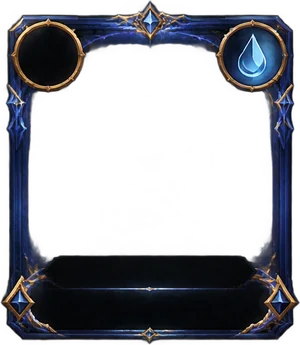
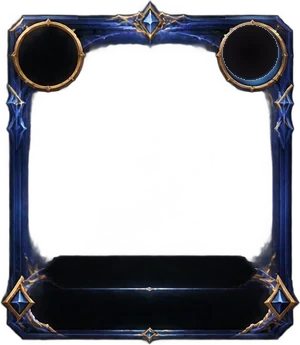
v1.73.2 : cartes de héros lisibles (niveau, affinité, étoiles, nom, badges de doublons) et barre du bas centrée
Claude-Session: https://claude.ai/code/session_01UFe4KkAhhm88BaEypYBpxf

Changed region(s): [[0.72, 0.058, 0.93, 0.2319]]

diff --git a/src/styles/kit.css b/src/styles/kit.css
@@ -31,23 +31,47 @@
 .progress { height: 9px; border-radius: 0; background: url('../assets/kit/bar_track.webp') center / 100% 100% no-repeat; box-shadow: none; border: 0; overflow: hidden; }
 .progress > div { height: 100%; border-radius: 0; background: url('../assets/kit/bar_fill.webp') left center / 100% 100% no-repeat !important; box-shadow: 0 0 6px rgba(255,200,100,0.35); }
 
-/* ── Cartes de héros : cadre peint selon la rareté ── */
-.hero-card { aspect-ratio: 300 / 348; border: 0 !important; border-radius: 0 !important; box-shadow: none !important; background: #07060b; overflow: visible; }
-.hero-card .art { inset: 8% 8% 22% 8%; overflow: hidden; }
-.hero-card .shade { inset: auto 8% 22% 8%; height: 26%; }
+/* ── Cartes de héros (v1.73.2) : cadre peint selon la rareté. Repères en % de l'image du cadre (300 × 348) :
+   médaillon gauche (niveau) et droit (affinité) centrés à 16,7 % / 83,3 % de large et 15 % de haut,
+   plaque du nom de 75 % à 95 % de haut. Tailles de texte en cqw : proportionnelles à la carte. ── */
+.hero-card { container-type: inline-size; aspect-ratio: 300 / 348; border: 0 !important; border-radius: 0 !important; box-shadow: none !important; background: #07060b; overflow: visible; }
+.hero-card .art { inset: 3% 6% 24% 6%; overflow: hidden; border-radius: 3px; }
+.hero-card .art img { object-position: center 18% !important; }
+.hero-card .shade { inset: auto 6% 24% 6%; height: 30%; background: linear-gradient(180deg, transparent, rgba(5,4,8,0.92)); }
 .hero-card .hc-frame { position: absolute; inset: 0; z-index: 1; pointer-events: none; background: url('../assets/kit/card_common.webp') center / 100% 100% no-repeat; }
 .hero-card.uncommon .hc-frame { background-image: url('../assets/kit/card_uncommon.webp'); }
 .hero-card.rare .hc-frame { background-image: url('../assets/kit/card_rare.webp'); }
 .hero-card.epic .hc-frame { background-image: url('../assets/kit/card_epic.webp'); }
 .hero-card.legendary .hc-frame { background-image: url('../assets/kit/card_legendary.webp'); }
 .hero-card.mythic .hc-frame { background-image: url('../assets/kit/card_mythic.webp'); }
-.hero-card .lvl { z-index: 2; top: 4.5%; left: 4.5%; width: 19%; aspect-ratio: 1; height: auto; padding: 0; display: grid; place-items: center; border: 0; border-radius: 50%; background: radial-gradient(circle, #1a1520, #07060b); font-size: 9.5px; line-height: 1; color: #f4dfa8; }
-.hero-card .hc-id { z-index: 2; top: 4.5%; right: 4.5%; }
-.hero-card .hc-id > :first-child { border-radius: 50%; background: radial-gradient(circle, #1a1520, #07060b); padding: 3px; box-sizing: content-box; }
-.hero-card .meta { z-index: 2; left: 9%; right: 9%; bottom: 5%; }
-.hero-card .hc-line { position: absolute; left: 0; right: 0; bottom: 270%; justify-content: center; }
-.hero-card .name { text-align: center; font-size: 10.5px; color: #f4e6c8; -webkit-line-clamp: 1; }
+/* Niveau : chiffre seul, centré dans le médaillon de gauche. */
+.hero-card .lvl { position: absolute; z-index: 2; left: 16.7% !important; top: 15% !important; right: auto !important; transform: translate(-50%, -50%); width: 17%; height: auto; aspect-ratio: 1; padding: 0 !important; display: grid; place-items: center; border: 0 !important; border-radius: 50% !important; background: none !important;
+  font-family: var(--font-body); font-size: 7.5cqw !important; font-weight: 800; line-height: 1; color: #f4dfa8; text-shadow: 0 1px 2px #000; }
+/* Affinité dans le médaillon de droite, rôle en petite pastille juste dessous. */
+.hero-card .hc-id { position: absolute; z-index: 2; top: 15% !important; right: auto !important; left: 83.3%; transform: translate(-50%, -50%); width: 17%; aspect-ratio: 1; display: grid !important; place-items: center; gap: 0; }
+.hero-card .hc-id > :first-child { width: 78% !important; height: 78% !important; padding: 0 !important; background: none !important; }
+.hero-card .hc-id .hc-role { position: absolute; top: 108%; left: 50%; transform: translateX(-50%); width: 13cqw; height: 13cqw; min-width: 14px; min-height: 14px; background: rgba(8,6,12,0.85); box-shadow: 0 0 0 1px rgba(233,198,122,0.55); }
+.hero-card .hc-id .hc-role svg { width: 62%; height: 62%; }
+/* Étoiles (et emblème de famille) centrées juste au-dessus de la plaque du nom. */
+.hero-card .meta { position: absolute; z-index: 2; inset: auto 8% 5% 8%; height: 20%; display: flex; align-items: center; justify-content: center; }
+.hero-card .hc-line { position: absolute !important; left: 0; right: 0; bottom: 118% !important; display: flex; justify-content: center; align-items: center; gap: 1.5cqw; }
+.hero-card .hc-line .stars { display: inline-flex; gap: 0.4cqw; }
+.hero-card .hc-line .stars svg { width: 6.5cqw; height: 6.5cqw; }
+.hero-card .hc-line > svg:first-child, .hero-card .hc-line > img:first-child { width: 7cqw; height: 7cqw; }
+/* Nom : une ligne, centrée dans la plaque ; les noms longs passent au prénom. */
+.theme-v2 .hero-card .name { display: block !important; width: 100%; text-align: center; white-space: nowrap; overflow: hidden; text-overflow: ellipsis; -webkit-line-clamp: unset !important;
+  font-family: 'Cormorant Garamond', Georgia, serif !important; font-weight: 700; font-size: 9cqw !important; line-height: 1.1; letter-spacing: 0.01em; text-transform: none; color: #f4e6c8; text-shadow: 0 1px 2px #000; margin: 0; }
+.hero-card .name .n-short { display: none !important; }
+.hero-card .name .n-full { display: inline !important; }
+.hero-card .name.long .n-full { display: none !important; }
+.hero-card .name.long .n-short { display: inline !important; }
+/* Doublons et verrou : petits badges à gauche, sous le médaillon du niveau. */
+.hero-card .hc-badges { position: absolute; z-index: 2; left: 6%; top: 28%; display: flex; flex-direction: column; gap: 3px; align-items: flex-start; }
+.hero-card .hc-badge { display: inline-grid; place-items: center; min-width: 13cqw; height: 11cqw; min-height: 15px; padding: 0 2.5cqw; border-radius: 99px; background: rgba(8,6,12,0.88); box-shadow: 0 0 0 1px #c99d4f; font-family: var(--font-body); font-size: 7cqw; font-weight: 800; line-height: 1; color: #ffd98a; }
+.hero-card .hc-badge.lock { color: #d9b36a; }
+.feed-slot .hero-card .hc-badges { left: 50% !important; right: auto !important; top: auto !important; bottom: 26% !important; transform: translateX(-50%); }
 .hero-card.selected { outline: 2px solid var(--gold-hi); outline-offset: 1px; }
+.hero-card.unowned::after { z-index: 3; }
 
 /* ── Héros : les quatre lieux en tuiles peintes ── */
 .hp-tile.kit { position: relative; height: auto; aspect-ratio: 1; padding: 0; gap: 0; background: none !important; border: 0 !important; box-shadow: none !important; }
@@ -150,3 +174,9 @@
 .theme-v2 .btn.fight-btn:not(.secondary) { padding-left: 10px; color: #2b1a06; }
 .theme-v2 .btn.secondary.prep-sweep > svg { display: none; }
 .theme-v2 .btn.secondary.prep-sweep { padding-left: 30px; }
+/* Petites cartes (équipe en préparation, formations…) : tailles minimales lisibles. */
+.theme-v2 .hero-card .name { font-size: max(9px, 9cqw) !important; }
+.hero-card .lvl { font-size: max(9px, 7.5cqw) !important; }
+.hero-card .hc-line .stars svg { width: max(6px, 6.5cqw); height: max(6px, 6.5cqw); }
+.prep-lead.on { font-size: 10px; line-height: 14px; }
+.mini-slot .hero-card .lvl { display: grid !important; }

diff --git a/src/ui/components/HeroCard.tsx b/src/ui/components/HeroCard.tsx
@@ -4,9 +4,12 @@ import { HeroArt } from '../art/HeroArt';
 import { FactionEmblem } from '../art/FactionEmblem';
 import { AffinityIcon, RoleIcon } from '../art/Identity';
 import { Stars } from './common';
+import { Icon } from '../art/Icons';
 
-export function HeroCard({ heroId, level, owned = true, selected, onClick, badge }: {
-  heroId: string; level?: number; owned?: boolean; selected?: boolean; onClick?: () => void; badge?: string;
+// Carte de héros (v1.73.2) : cadre peint selon la rareté ; niveau dans le médaillon de gauche, affinité dans celui de droite,
+// rôle juste dessous ; étoiles au-dessus de la plaque du nom ; doublons / verrou dans un petit badge sur le côté.
+export function HeroCard({ heroId, level, owned = true, selected, onClick, badge, locked }: {
+  heroId: string; level?: number; owned?: boolean; selected?: boolean; onClick?: () => void; badge?: string; locked?: boolean;
 }) {
   const d = HERO_BY_ID[heroId];
   const r = RARITIES[d.rarity];
@@ -16,12 +19,12 @@ export function HeroCard({ heroId, level, owned = true, selected, onClick, badge
       <div className="art"><HeroArt heroId={heroId} /></div>
       <div className="shade" />
       <i className="hc-frame" aria-hidden />
-      {level !== undefined && owned && <span className="lvl">Nv {level}</span>}
-      {badge && <span className="lvl" style={{ left: 'auto', right: 4, top: 48 }}>{badge}</span>}
+      {level !== undefined && owned && <span className="lvl" aria-label={`Niveau ${level}`}>{level}</span>}
+      {(badge || locked) && <span className="hc-badges">{badge && <span className="hc-badge">{badge}</span>}{locked && <span className="hc-badge lock" aria-label="Verrouillé"><Icon.lock size={10} /></span>}</span>}
       <span className="hc-id"><AffinityIcon id={d.affinity} size={18} /><span className="hc-role"><RoleIcon id={d.role} size={12} /></span></span>
       <div className="meta">
         <div className="hc-line"><FactionEmblem id={d.faction} size={13} /><Stars rarity={d.rarity} /></div>
-        <div className="name"><span className="n-full">{d.name}</span><span className="n-short">{d.name.split(/[ ,]/)[0]}</span></div>
+        <div className={`name ${d.name.length > 13 ? 'long' : ''}`}><span className="n-full">{d.name}</span><span className="n-short">{d.name.split(/[ ,]/)[0]}</span></div>
       </div>
     </Tag>
   );

diff --git a/src/styles/home2.css b/src/styles/home2.css
@@ -95,7 +95,7 @@
 /* Barre du bas : bandeau peint, icônes peintes (dorées quand l'onglet est actif), cristal d'invocation. */
 .bottom-nav { background: #0a090e !important; border-top: 0 !important; }
 .bottom-nav::before { display: none !important; }
-.bottom-nav::after { content: ''; position: absolute; inset: -6px 0 0 0; z-index: -1; pointer-events: none; border-style: solid; border-color: transparent; border-width: 10px 60px 0 60px; border-image: url('../assets/home/nav_strip.webp') 16 110 0 110 fill / 10px 60px 0 60px stretch; }
+.bottom-nav::after { content: ''; position: absolute; top: -6px; left: 0; right: 0; height: calc(var(--nav-h) + 8px); z-index: -1; pointer-events: none; border-style: solid; border-color: transparent; border-width: 10px 60px 0 60px; border-image: url('../assets/home/nav_strip.webp') 16 110 0 110 fill / 10px 60px 0 60px stretch; }
 .nav-ico { width: auto; height: 27px; opacity: 1; filter: drop-shadow(0 1px 2px #000); }
 .nav-item.active .nav-ico { filter: drop-shadow(0 0 4px rgba(255,190,90,0.6)); }
 .nav-item + .nav-item { border-left: 0; }
@@ -116,3 +116,11 @@
 .home .pill.kit small { font-size: 9px; }
 .home .topbar { gap: 2px; }
 .home .avatar-btn > div:last-child { min-width: 70px; }
+
+/* v1.73.2 — barre du bas : le cadre peint ne couvre que la barre (pas la zone du bas de l'iPhone),
+   icônes et noms centrés verticalement dans le cadre ; le cristal d'invocation dépasse au-dessus. */
+.bottom-nav { padding-bottom: var(--sab) !important; }
+.bottom-nav .nav-item { height: var(--nav-h); justify-content: center !important; padding: 2px 0 0 !important; gap: 2px !important; }
+.bottom-nav .nav-ico { height: 25px; }
+.nav-item.summon { justify-content: flex-end !important; padding-bottom: 6px !important; }
+.nav-item.summon .nav-crystal { width: 52px; margin-top: -26px; top: 0 !important; }

diff --git a/src/styles/craft.css b/src/styles/craft.css
@@ -897,7 +897,7 @@ body:has(.battle-controls) .toasts { bottom: auto; top: calc(var(--sat, 0px) + 1
 /* Lisibilité : plus aucun texte sous 11 px (audit). */
 .prep-lead { font-size: 11px; }
 .feed-h { font-size: 14px; margin: 4px 0 4px; color: var(--gold-hi); font-family: var(--font-title); }
-.feed-slot .hero-card .lvl[style] { top: auto !important; bottom: 3px; right: 2px !important; left: 2px !important; text-align: center; padding: 0 2px; font-size: 11px; letter-spacing: -0.3px; }
+.feed-slot .hero-card .hc-badges { top: auto !important; bottom: 3px; right: 2px !important; left: 2px !important; text-align: center; padding: 0 2px; font-size: 11px; letter-spacing: -0.3px; }
 
 /* ─── Combats en arrière-plan (v1.68.5) ─── */
 .bg-pill { position: fixed; z-index: 30; left: 50%; transform: translateX(-50%); bottom: calc(var(--nav-h) + var(--sab) + 8px);

diff --git a/src/ui/screens/Collection.tsx b/src/ui/screens/Collection.tsx
@@ -51,7 +51,7 @@ export function Collection() {
 
       {owned.length === 0 && <p className="muted" style={{ textAlign: 'center' }}>Aucun héros ne correspond à ces filtres.</p>}
       <div className="hero-grid">
-        {owned.map(({ h }) => <HeroCard key={h.uid} heroId={h.heroId} level={h.level} badge={copiesOf(save, h.heroId) ? `+${copiesOf(save, h.heroId)} doublon${copiesOf(save, h.heroId) > 1 ? 's' : ''}` : h.locked ? '🔒' : undefined} onClick={() => push({ name: 'hero', uid: h.uid, heroId: h.heroId })} />)}
+        {owned.map(({ h }) => <HeroCard key={h.uid} heroId={h.heroId} level={h.level} badge={copiesOf(save, h.heroId) ? `+${copiesOf(save, h.heroId)}` : undefined} locked={h.locked} onClick={() => push({ name: 'hero', uid: h.uid, heroId: h.heroId })} />)}
       </div>
       {missing.length > 0 && (
         <>

diff --git a/README.md b/README.md
@@ -4,7 +4,7 @@ RPG mobile de collection de héros au tour par tour, univers original mêlant fa
 science-fiction et civilisations antiques. Conçu pour iPhone, jouable **hors ligne**, **gratuit**,
 sans App Store ni serveur : c'est une application web progressive (PWA) qu'on installe depuis Safari.
 
-> État : **version 1.73.1** (Multijoueur : Arène réelle, clans et amis ; notifications) — histoire en 9 chapitres (90 niveaux, 4 difficultés), 88 héros, invocations, améliorations, maîtrises, équipement, marché, 7 donjons dont 4 d’équipement (15 étages), tour (100 étages), camp (butin d’absence), boss mondial, arène, missions, expéditions, un événement différent chaque semaine, comptes et classements en ligne.
+> État : **version 1.73.2** (Multijoueur : Arène réelle, clans et amis ; notifications) — histoire en 9 chapitres (90 niveaux, 4 difficultés), 88 héros, invocations, améliorations, maîtrises, équipement, marché, 7 donjons dont 4 d’équipement (15 étages), tour (100 étages), camp (butin d’absence), boss mondial, arène, missions, expéditions, un événement différent chaque semaine, comptes et classements en ligne.
 
 **Jouer : https://jeu-aeonfall.vercel.app/** (adresse principale, hébergée par Vercel). Secours : https://shisuiu.github.io/jeu/ (GitHub Pages). Voir [docs/ROADMAP.md](docs/ROADMAP.md).
 

diff --git a/docs/ROADMAP.md b/docs/ROADMAP.md
@@ -558,6 +558,11 @@
 - **Une musique par lieu** : Forge (lourde et grave), Sanctuaire (chœur), Tour (mystérieuse), Arène (martiale), Marché, Camp ; les boss gardent la leur
 - **Arène : correction** : depuis la v1.54, une défense dont l'équipement donnait plus de 3 % de bonus était écartée par erreur (les joueurs bien équipés n'apparaissaient presque jamais) ; plafond réaliste de 400 %, la vérification de puissance reste
 
+## ✅ Version 1.73.2 — Cartes de héros et barre du bas remises au propre
+
+- **Cartes de héros** : le niveau (chiffre seul) dans le médaillon de gauche, l'**affinité** dans le médaillon de droite (l'emblème peint qui pouvait passer pour une affinité a été retiré du cadre), le rôle juste dessous ; les étoiles et l'emblème de famille au-dessus de la plaque du nom ; le nom sur une ligne (prénom seul pour les noms longs) ; les doublons et le verrou dans de petits badges sur le côté, plus au milieu du portrait. Tailles proportionnelles à la carte, avec un minimum lisible pour les petites cartes.
+- **Barre du bas** : le cadre peint ne couvre plus la zone du bas de l'iPhone ; icônes et noms sont centrés dans leur emplacement.
+
 ## ✅ Version 1.73.1 — Kits SpriteCook : Campagne, Préparation, Combat
 
 Trois nouvelles maquettes et leurs kits (43 pièces peintes) :
